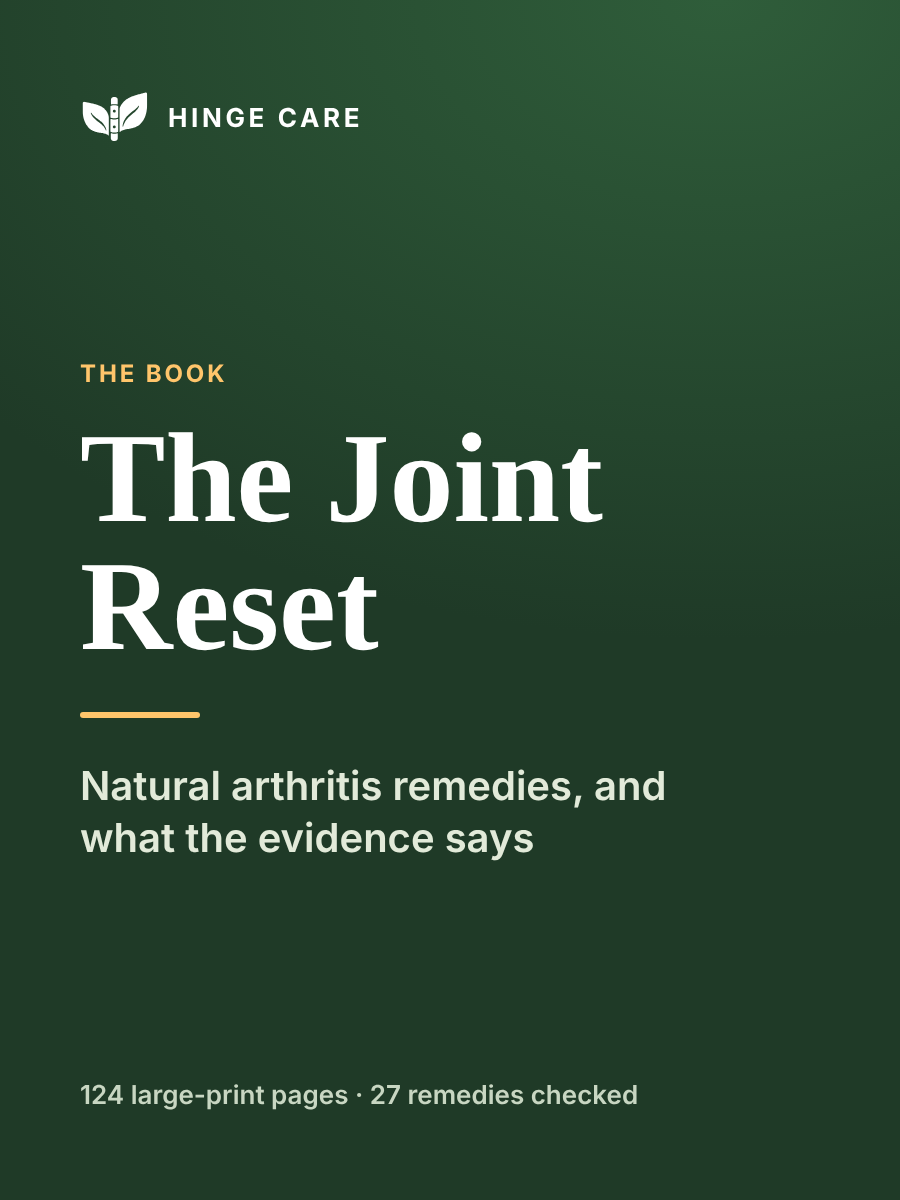
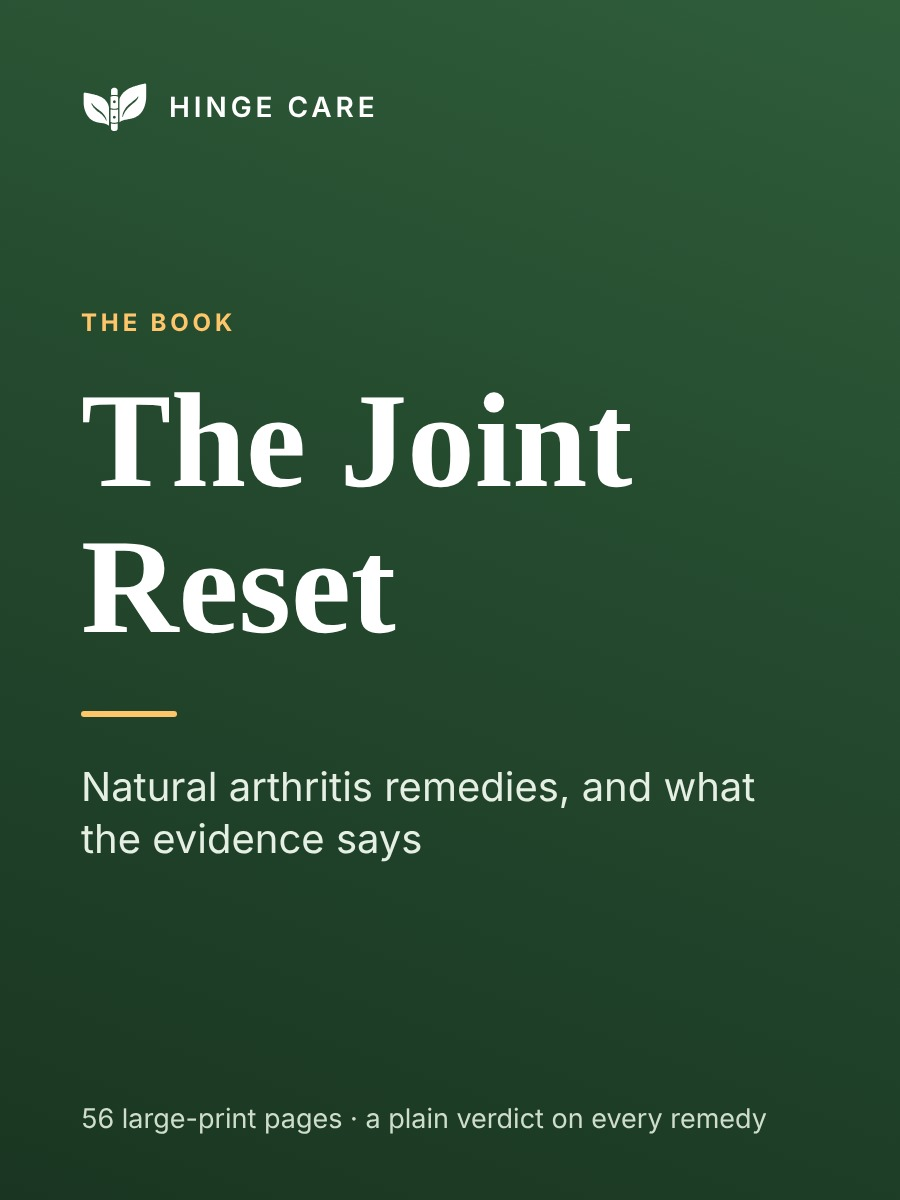
Matching covers for guide, book, Program and Club; book cover now says 56 pages
Claude-Session: https://claude.ai/code/session_016AkRdsJikUb1CWbo4NGJjS

diff --git a/index.html b/index.html
@@ -35,7 +35,7 @@
 <p class="sub">Hinge Care lists every price on this page, and nothing is added at checkout.</p>
 <div class="cards">
 <div class="card"><img src="images/cover-habits-rust.jpg?v=2" alt="Cover of the free guide, 7 Bad Habits That Will Keep Joints Stiff and Sore" loading="lazy" width="900" height="1200"><p class="eye">Free · start here</p><h3>7 Bad Habits</h3><p>Seven everyday habits that keep joints stiff, and a simple fix for each. Most of the fixes cost nothing.</p><p class="price">Free</p><a class="b b1" href="guide.html">Get it free</a></div>
-<div class="card"><img src="images/cover-joint-reset-green.png" alt="Cover of The Joint Reset book" loading="lazy" width="900" height="1200"><p class="eye">The book</p><h3>The Joint Reset</h3><p>56 large-print pages. Dozens of home remedies checked against the research, with a plain verdict on each.</p><p class="price">$17 <small>one payment</small></p><a class="b b2" href="book.html">See the book</a></div>
+<div class="card"><img src="images/cover-joint-reset-green.png?v=2" alt="Cover of The Joint Reset book" loading="lazy" width="900" height="1200"><p class="eye">The book</p><h3>The Joint Reset</h3><p>56 large-print pages. Dozens of home remedies checked against the research, with a plain verdict on each.</p><p class="price">$17 <small>one payment</small></p><a class="b b2" href="book.html">See the book</a></div>
 <div class="card"><img src="https://images.pexels.com/photos/7530853/pexels-photo-7530853.jpeg?auto=compress&cs=tinysrgb&w=800" alt="An older woman sitting on the edge of her bed in the morning, stretching gently" loading="lazy" width="1168" height="880"><p class="eye">The Program</p><h3>The Hinge Care Program</h3><p>Eight weeks, one small step a day, with 24 short videos and the Gentle Stretch app for guided chair routines. Go at your own pace.</p><p class="price">$97 <small>paid once</small></p><a class="b b2" href="course-info.html">See the Program</a></div>
 </div>
 <div class="wide"><div><p class="eye">The Hinge Care Club</p><h3>Something gentle to look forward to, every week.</h3><p>Join for yourself, or give it to Mom or Dad. The first 50 members pay $9 a month (about 30 cents a day) or $90 a year, for as long as they stay. After that it's $19 a month.</p></div>

diff --git a/book.html b/book.html
@@ -23,7 +23,7 @@
 <div><p class="eye">From Hinge Care · The Joint Reset</p><h1>Before you buy one more remedy, find out what the studies say.</h1>
 <p class="lede">Most of us have stood in the pharmacy aisle reading labels and hoping. This book takes dozens of home remedies people ask about and tells you, in plain words, what the research found.</p>
 <div class="buy"><p class="price">$17 <small>one payment</small></p><a class="b b1" href="shop/checkout.html?item=book">Get the book · $17</a><p class="fine">A PDF you keep on any phone, tablet or computer, backed by our 30-day money-back promise.</p></div></div>
-<img class="cover" src="images/cover-joint-reset-green.png" alt="Cover of The Joint Reset" width="900" height="1200" fetchpriority="high">
+<img class="cover" src="images/cover-joint-reset-green.png?v=2" alt="Cover of The Joint Reset" width="900" height="1200" fetchpriority="high">
 </div></section>
 <section class="s alt"><div class="w split">
 <div><h2>What you'll find inside</h2><ul class="ticks"><li>A plain verdict on dozens of home remedies: what helps, what may, and what's your call.</li><li>A daily routine, and a four-week plan that adds one habit a week.</li><li>Ten easy movements that need only a sturdy chair.</li><li>A flare-day plan, and clear signs for when to see your doctor.</li></ul></div>

diff --git a/gift.html b/gift.html
@@ -22,7 +22,7 @@
 <div><p class="eye">Black Friday · November 27 to December 1</p><h1>For someone whose mornings are harder than they let on.</h1>
 <p class="lede">The book and the Program together for $97. Bought separately they cost $114. For five days only, for yourself or for someone you love.</p>
 <div class="buy"><p class="price">$97 <small>paid once, both yours to keep</small></p><a class="b b1" href="shop/checkout.html?item=bundle">Get the bundle · $97</a><p class="fine">30-day money-back promise. On sale from Friday, November 27.</p></div></div>
-<img class="cover" src="images/cover-joint-reset-green.png" alt="Cover of The Joint Reset" width="900" height="1200">
+<img class="cover" src="images/cover-joint-reset-green.png?v=2" alt="Cover of The Joint Reset" width="900" height="1200">
 </div></section>
 <section class="s alt"><div class="w split">
 <div><h2>What's in the bundle</h2><ul class="ticks"><li>The Joint Reset: dozens of home remedies with a plain verdict on each, a daily routine and a flare-day plan ($17).</li><li>The Hinge Care Program: eight weeks of small daily steps with 24 short videos and the Gentle Stretch app ($97).</li></ul></div>

diff --git a/thank-you.html b/thank-you.html
@@ -28,7 +28,7 @@
 <li><span class="num">2</span><h3>Open your guide</h3><p>One tap and it's yours, on any phone, tablet or computer.</p></li>
 <li><span class="num">3</span><h3>Try one fix</h3><p>Just one. That's plenty for today.</p></li></ol></div></section>
 <section class="s"><div class="w split">
-<img class="cover" src="images/cover-joint-reset-green.png" alt="Cover of The Joint Reset" width="900" height="1200" loading="lazy">
+<img class="cover" src="images/cover-joint-reset-green.png?v=2" alt="Cover of The Joint Reset" width="900" height="1200" loading="lazy">
 <div><p class="eye">If you'd like the full picture</p><h2>The Joint Reset, $17</h2><p>The free guide covers seven habits. The book covers dozens of home remedies people ask about, with a plain verdict on each, in 56 large-print pages.</p>
 <div class="btns"><a class="b b1" href="shop/checkout.html?item=book">Get the book · $17</a><a class="b b2" href="index.html">Back to the home page</a></div>
 <p class="fine">Backed by our 30-day money-back promise. Hinge Care makes no cure claims, and the book works alongside your doctor's care.</p></div>
